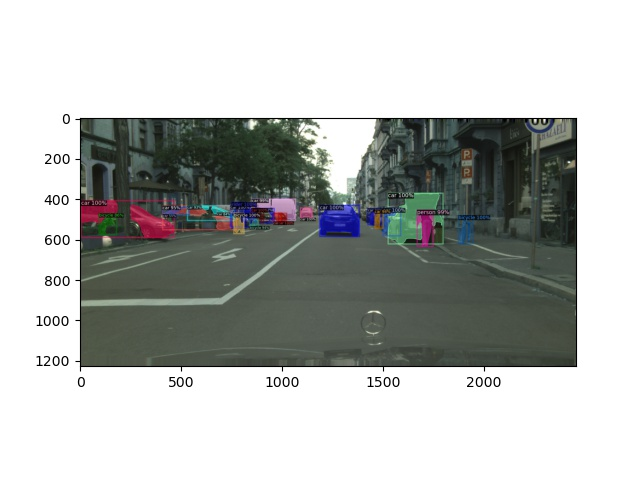
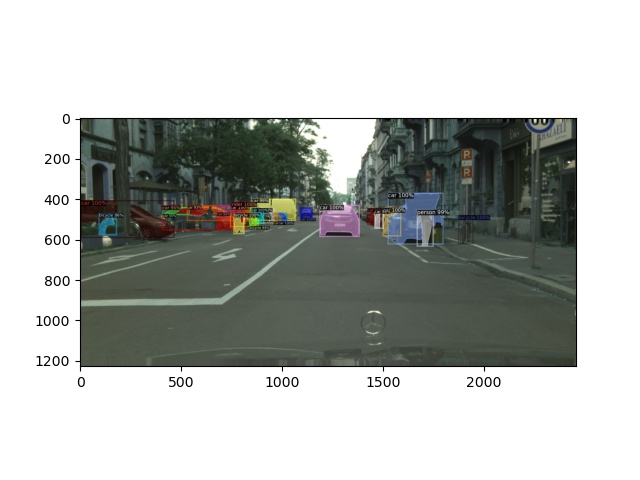
[UQHeads] missing the config on UQFastRCNNHeads

Changed region(s): [[0.125, 0.375, 0.75, 0.5312]]

diff --git a/experiments/detection/UQHeads.py b/experiments/detection/UQHeads.py
@@ -1,0 +1,100 @@
+import numpy as np
+from typing import Union, Dict, List, Optional
+import fvcore.nn.weight_init as weight_init
+import torch
+import torch.nn as nn
+from torch.nn import functional as F
+
+from detectron2.config import configurable
+from detectron2.layers import Conv2d, ShapeSpec, get_norm
+from detectron2.modeling import ROI_HEADS_REGISTRY, StandardROIHeads, FastRCNNOutputLayers
+from detectron2.modeling.poolers import ROIPooler
+from detectron2.modeling.roi_heads import select_foreground_proposals
+from detectron2.structures import ImageList, Instances
+
+import pdb
+
+class UQFastRCNNOutputLayers(FastRCNNOutputLayers):
+    """
+        A Standard ROIHeads which contains an addition of DensePose head.
+    """
+    @configurable
+    def __init__(
+        self,
+        input_shape: ShapeSpec,
+        *,
+        box2box_transform,
+        num_classes: int,
+        test_score_thresh: float = 0.0,
+        test_nms_thresh: float = 0.5,
+        test_topk_per_image: int = 100,
+        cls_agnostic_bbox_reg: bool = False,
+        smooth_l1_beta: float = 0.0,
+        box_reg_loss_type: str = "smooth_l1",
+        loss_weight: Union[float, Dict[str, float]] = 1.0,
+    ):
+        super().__init__(self.cfg, input_shape)
+
+@ROI_HEADS_REGISTRY.register()
+class UQHeads(StandardROIHeads):
+    """
+        A Standard ROIHeads which contains an addition of DensePose head.
+    """
+    def __init__(self, cfg, input_shape):
+        super().__init__(cfg, input_shape)
+        self._init_uq_head(cfg, input_shape)
+
+    def _init_uq_head(self, cfg, input_shape):
+        pdb.set_trace()
+        self.box_predictor = UQFastRCNNOutputLayers(cfg, self.box_head.output_shape, cfg)
+
+    def forward(
+        self,
+        images: ImageList,
+        features: Dict[str, torch.Tensor],
+        proposals: List[Instances],
+        targets: Optional[List[Instances]] = None,
+    ):
+        instances, losses = super().forward(images, features, proposals, targets)
+        return instances, losses
+
+    # This is the forward method from StandardROIHeads
+    def _forward_box(self, features: Dict[str, torch.Tensor], proposals: List[Instances]):
+        """
+        Forward logic of the box prediction branch. If `self.train_on_pred_boxes is True`,
+            the function puts predicted boxes in the `proposal_boxes` field of `proposals` argument.
+
+        Args:
+            features (dict[str, Tensor]): mapping from feature map names to tensor.
+                Same as in :meth:`ROIHeads.forward`.
+            proposals (list[Instances]): the per-image object proposals with
+                their matching ground truth.
+                Each has fields "proposal_boxes", and "objectness_logits",
+                "gt_classes", "gt_boxes".
+
+        Returns:
+            In training, a dict of losses.
+            In inference, a list of `Instances`, the predicted instances.
+        """
+        features = [features[f] for f in self.box_in_features]
+        box_features = self.box_pooler(features, [x.proposal_boxes for x in proposals])
+        box_features = self.box_head(box_features)
+        predictions = self.box_predictor(box_features)
+
+        del box_features
+
+        if self.training:
+            losses = self.box_predictor.losses(predictions, proposals)
+            # proposals is modified in-place below, so losses must be computed first.
+            if self.train_on_pred_boxes:
+                with torch.no_grad():
+                    pred_boxes = self.box_predictor.predict_boxes_for_gt_classes(
+                        predictions, proposals
+                    )
+                    for proposals_per_image, pred_boxes_per_image in zip(proposals, pred_boxes):
+                        proposals_per_image.proposal_boxes = Boxes(pred_boxes_per_image)
+            return losses
+        else:
+            pred_instances, _ = self.box_predictor.inference(predictions, proposals)
+            return pred_instances
+

diff --git a/experiments/detection/experiment.py b/experiments/detection/experiment.py
@@ -16,11 +16,16 @@ from detectron2.config import get_cfg
 from detectron2.utils.visualizer import Visualizer
 from detectron2.data import MetadataCatalog, DatasetCatalog
 
+from UQHeads import UQHeads
+
+import pdb
+
 if __name__ == "__main__":
     im = cv2.imread("./datasets/cityscapes/leftImg8bit/val/frankfurt/frankfurt_000001_075296_leftImg8bit.png")
     cfg = get_cfg()
     # add project-specific config (e.g., TensorMask) here if you're not running a model in detectron2's core library
     cfg.merge_from_file(model_zoo.get_config_file("Cityscapes/mask_rcnn_R_50_FPN.yaml"))
+    cfg.MODEL.ROI_HEADS.NAME = "UQHeads"
     cfg.MODEL.ROI_HEADS.SCORE_THRESH_TEST = 0.5  # set threshold for this model
     # Find a model from detectron2's model zoo. You can use the https://dl.fbaipublicfiles... url as well
     cfg.MODEL.WEIGHTS = model_zoo.get_checkpoint_url("Cityscapes/mask_rcnn_R_50_FPN.yaml")
